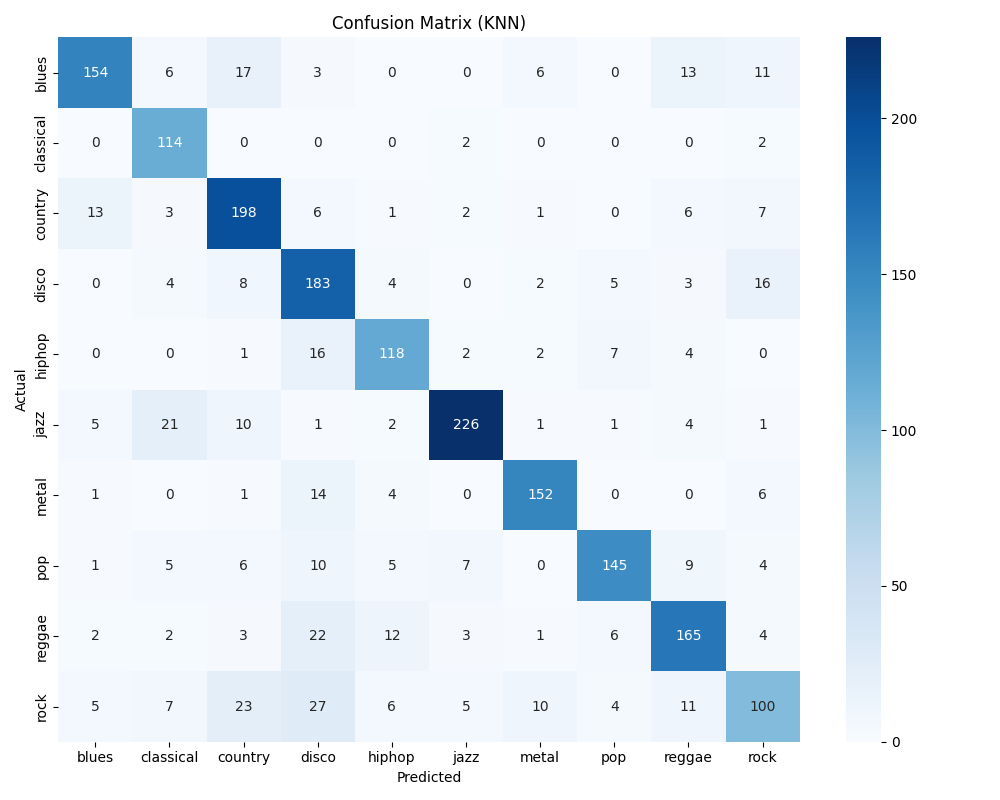
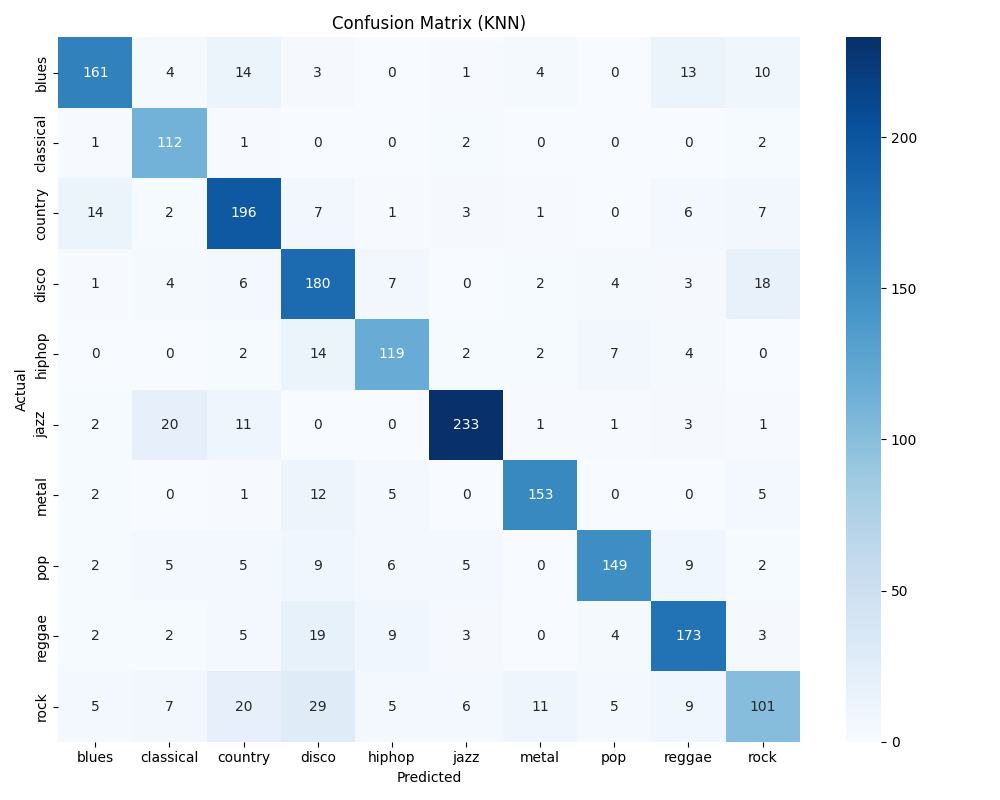
Elbow Curve

diff --git a/Elbow Curve.py b/Elbow Curve.py
@@ -1,0 +1,102 @@
+# Librerías estándar
+import os
+import matplotlib.pyplot as plt
+
+# Librerías ML
+from sklearn.metrics import (
+    accuracy_score, classification_report, precision_recall_fscore_support)
+from sklearn.neighbors import KNeighborsClassifier
+
+# Tus módulos
+from Plots import *
+from carrega_dades import *
+
+# ============================================================
+# 0. CONFIGURACIÓN
+# ============================================================
+MODEL = "KNN"
+plot_dir = os.path.join("Plots", MODEL)
+os.makedirs(plot_dir, exist_ok=True)
+
+# ============================================================
+# 1. CARGA Y PREPROCESAMIENTO
+# ============================================================
+try:
+    X_train, X_test, y_train, y_test, label_encoder, scaler = cargar_y_preprocesar_datos_3s()
+    #XX_train, X_test, y_train, y_test, label_encoder, scaler = cargar_y_preprocesar_datos_30s()
+    class_names = label_encoder.classes_
+except Exception as e:
+    print(f"Error cargando datos: {e}")
+    exit()
+
+# ============================================================
+# 2. ANÁLISIS DE HIPERPARÁMETROS (ELBOW CURVE MEJORADA)
+# ============================================================
+# REEMPLAZA AL RANDOM SEARCH
+# Justificación: Buscamos visualmente el mejor K probando 4 configuraciones.
+
+print("\n🔍 Generando Elbow Curve Comparativa (Buscando mejor modelo)...")
+
+k_range = range(1, 15)  # Probamos K del 1 al 20
+
+# Las 4 combinaciones a comparar
+configs = [
+    {'weights': 'uniform',  'p': 1, 'label': 'Uniform + Manhattan (p=1)', 'color': 'orange', 'style': '-'},
+    {'weights': 'uniform',  'p': 2, 'label': 'Uniform + Euclidean (p=2)', 'color': 'blue',   'style': '-'},
+    {'weights': 'distance', 'p': 1, 'label': 'Distance + Manhattan (p=1)', 'color': 'green',  'style': '-'},
+    {'weights': 'distance', 'p': 2, 'label': 'Distance + Euclidean (p=2)', 'color': 'purple', 'style': '-'}
+]
+
+results = {i: [] for i in range(len(configs))}
+
+# Variables para guardar al ganador
+global_best_score = -1
+final_k = 1
+final_weights = 'uniform'
+final_p = 2
+best_config_label = ""
+
+# --- Bucle de Búsqueda
+for k in k_range:
+    for idx, config in enumerate(configs):
+        # Entrenamos modelo temporal
+        knn_temp = KNeighborsClassifier(n_neighbors=k, weights=config['weights'], p=config['p'])
+        knn_temp.fit(X_train, y_train)
+        score = knn_temp.score(X_test, y_test)
+        
+        results[idx].append(score)
+        
+        # Guardamos si es el mejor hasta el momento
+        if score > global_best_score:
+            global_best_score = score
+            final_k = k
+            final_weights = config['weights']
+            final_p = config['p']
+            best_config_label = config['label']
+
+print(f"\n🏆 MEJOR CONFIGURACIÓN SELECCIONADA:")
+print(f"   ► Estrategia:    {best_config_label}")
+print(f"   ► K (Vecinos):   {final_k}")
+print(f"   ► Accuracy:      {global_best_score:.4f}")
+
+# --- Graficar y Guardar (Lo que quiere el profe) ---
+plt.figure(figsize=(12, 8))
+for idx, config in enumerate(configs):
+    plt.plot(k_range, results[idx], color=config['color'], linestyle=config['style'], marker='o', label=config['label'])
+
+# Resaltar el ganador
+plt.scatter(final_k, global_best_score, color='red', s=200, zorder=10, edgecolors='black', 
+            label=f'MEJOR (K={final_k})')
+
+plt.title(f'Optimización KNN: Comparativa de Métricas (Ganador: {best_config_label})', fontsize=14)
+plt.xlabel('K (Número de Vecinos)')
+plt.ylabel('Accuracy')
+plt.xticks(k_range)
+plt.grid(True, alpha=0.3)
+plt.legend()
+
+elbow_path = os.path.join(plot_dir, "knn_hyperparameter_analysis.png")
+plt.savefig(elbow_path)
+plt.close()
+print(f"✅ Gráfico explicativo guardado en: {elbow_path}")
+

diff --git a/KNN.py b/KNN.py
@@ -36,31 +36,17 @@ except Exception as e:
     exit()
 
 
-# ============================================================
-# 3. KNN
-# ============================================================
-print("\n🔍 Buscando mejores hiperparámetros para KNN...")
+# ========================================================================================================================
+# 3. ENTRENAMIENTO KNN CON PARAMETROS ÓPTIMOS DE ELBOW CURVE (ENCONTRADOS ANTES EJECUTANDO Elbow Curve.py)
+# ========================================================================================================================
+print("\n🤖 Entrenando KNN con mejores hiperparámetros encontrados...")
+best_k = 4  # Reemplaza con el mejor K encontrado
+best_weights = 'distance'  # Reemplaza con el mejor peso encontrado ('uniform' o 'distance')
+best_p = 1  # Reemplaza con el mejor p encontrado (1 para Manhattan, 2 para Euclidean)
+print(f"Mejores hiperparámetros: K={best_k}, weights='{best_weights}', p={best_p}")
 
-param_grid = {
-    'n_neighbors': randint(1, 15),
-    'weights': ['uniform', 'distance'],
-    'p': [1, 2]
-}
-
-knn = KNeighborsClassifier()
-
-random_search_knn = RandomizedSearchCV(
-    knn,
-    param_distributions=param_grid,
-    n_iter=10,
-    cv=5,
-    random_state=42
-)
-
-random_search_knn.fit(X_train, y_train)
-best_knn = random_search_knn.best_estimator_
-
-print(f"✔ Mejor modelo encontrado: {best_knn}")
+best_knn = KNeighborsClassifier(n_neighbors=best_k, weights=best_weights, p=best_p)
+best_knn.fit(X_train, y_train)
 
 # ============================================================
 # 4. EVALUACIÓN
